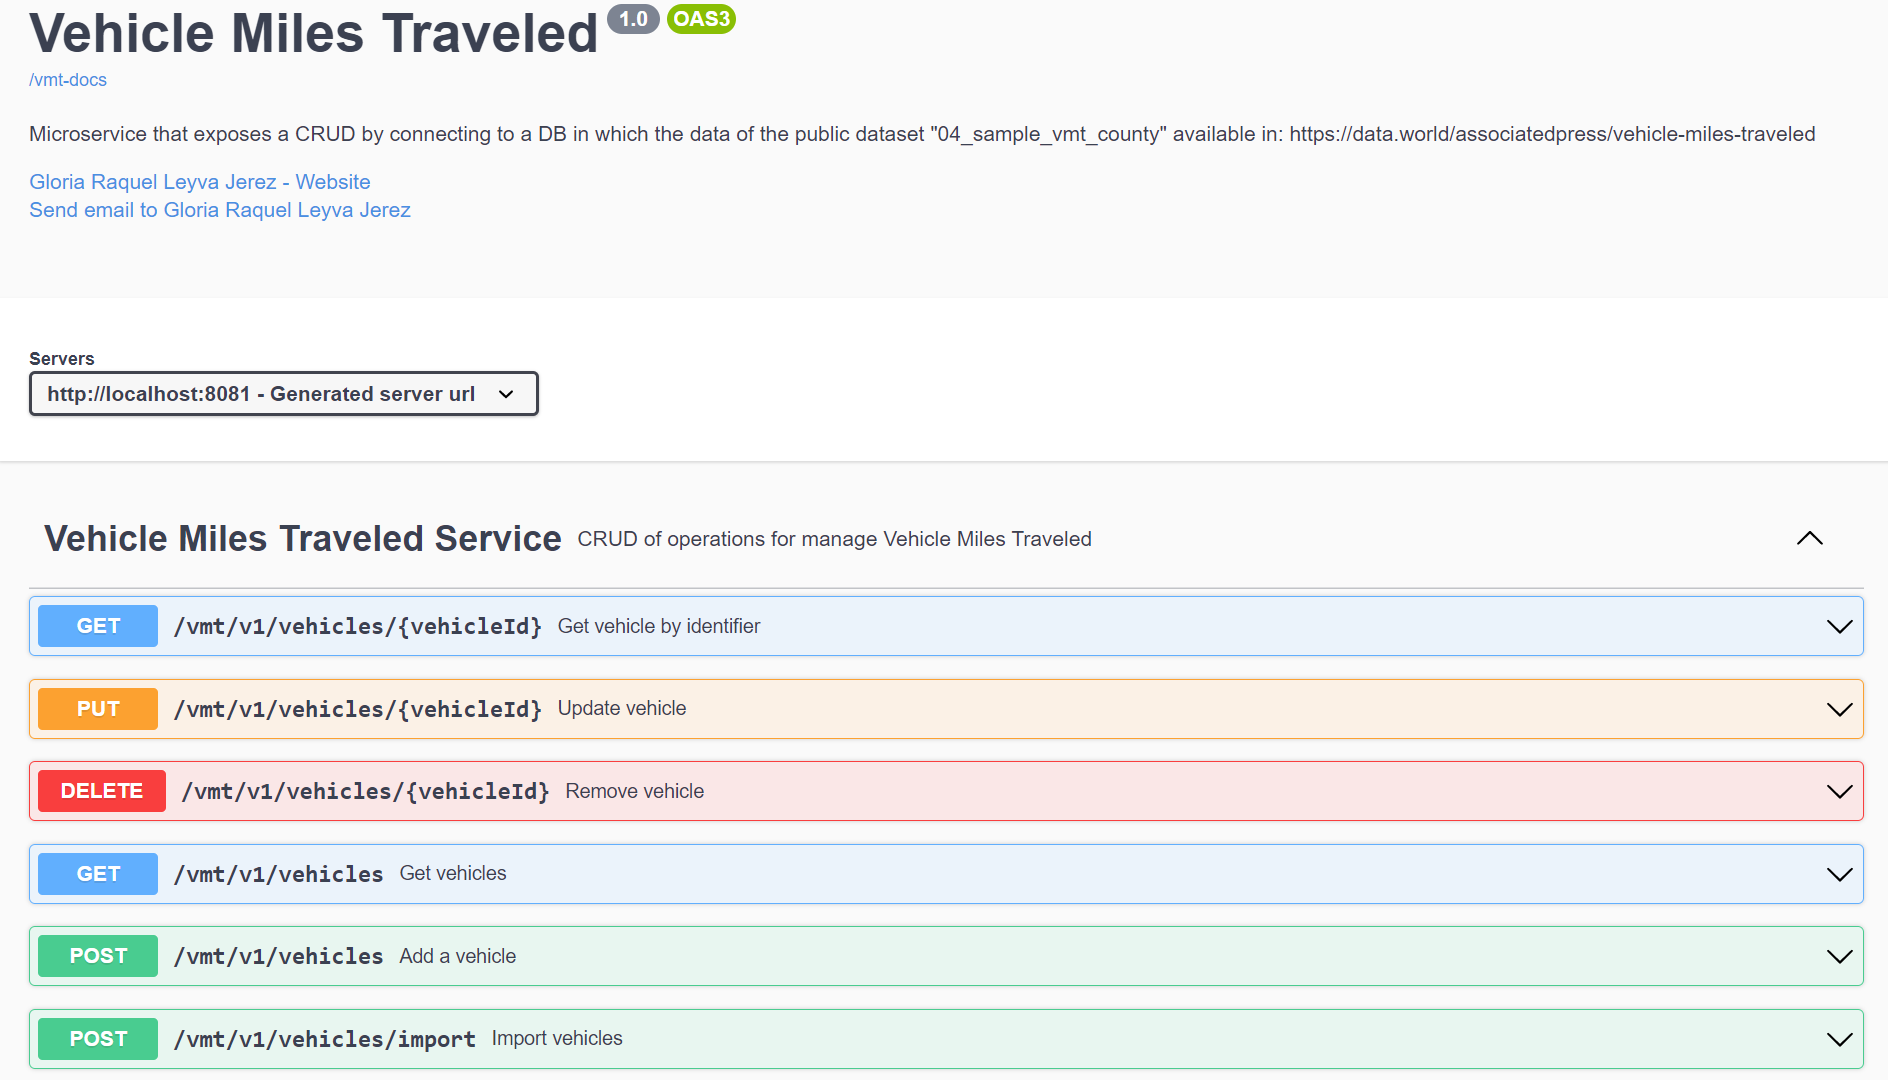
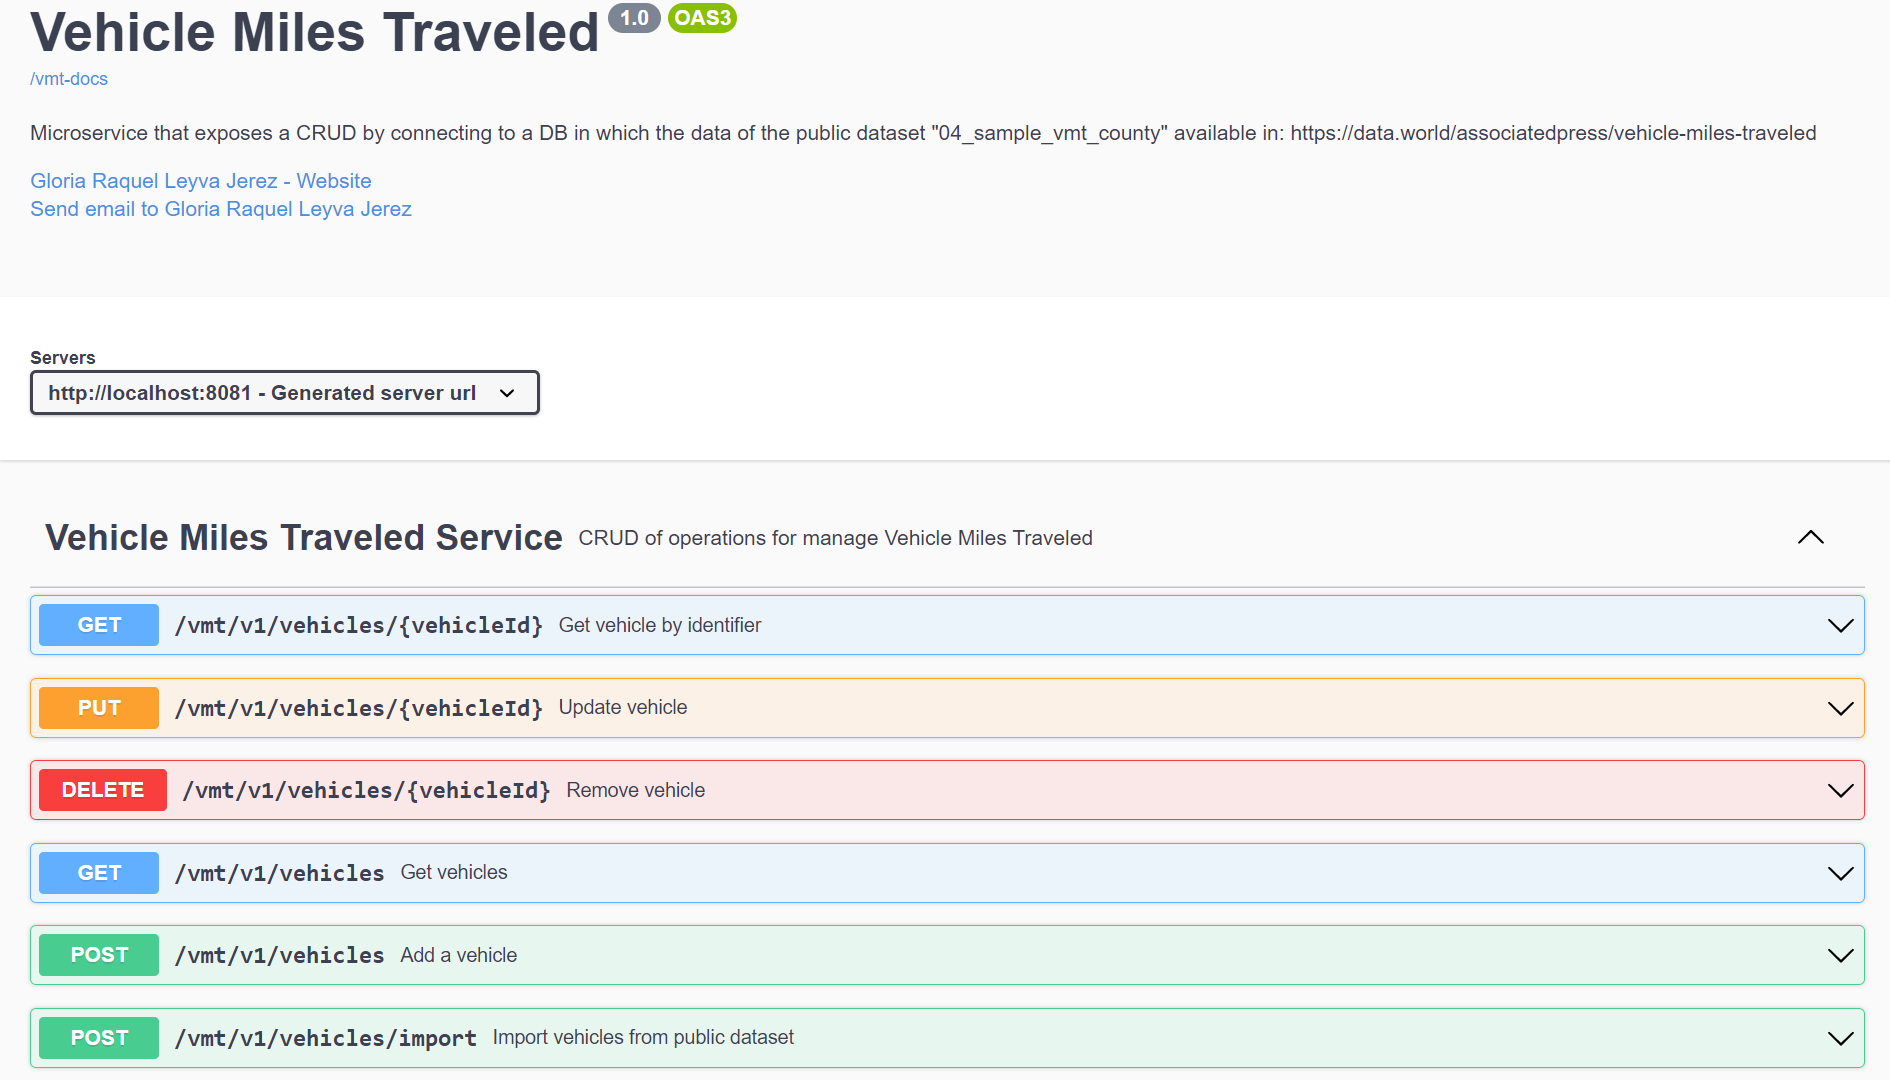
Update documentation

diff --git a/src/main/java/ch/prodigio/vmt/demo/application/constant/Documentation.java b/src/main/java/ch/prodigio/vmt/demo/application/constant/Documentation.java
@@ -32,7 +32,7 @@ public class Documentation {
 	public static final String vmt_tag_name = "Vehicle Miles Traveled Service";
 	public static final String vmt_tag_description = "CRUD of operations for manage Vehicle Miles Traveled";
 
-	public static final String import_vehicles_op_summary = "Import vehicles";
+	public static final String import_vehicles_op_summary = "Import vehicles from public dataset";
 	public static final String import_vehicles_op_description = "Import vehicles from dataset.";
 	public static final String import_vehicles_pm_description = "CSV Dataset to import.";
 	public static final String import_vehicles_rp_ok_description = "Vehicle has been imported";

diff --git a/README.md b/README.md
@@ -22,7 +22,7 @@ Ruta de la documentación de swagger: `http://localhost:8081/vmt-demo-api-docs`
 
 2. Endpoints implementados:
 
-   POST `/vmt/v1/vehicles/import` Importar dataset para previamente cargar los datos. Retorna el listado de los datos importados (se lista solo una selección de datos). 
+   POST `/vmt/v1/vehicles/import` Importar dataset para previamente cargar los datos. Se deberá descargar previamente el dataset o emplear el que ha sido previamente descargado y se encuentra en el directorio de resorce : `\vehicle-miles-traveled-service\src\main\resources\04_sample_vmt_county.csv`. El endpoint retorna el listado de todos los kms de vehículos importados (de cada vmt se seleccionan algunos datos para listar). 
    ![printscrenn](readme/import-dataset.PNG)
    
    GET `/vmt/v1/vehicles` Listar todos los datos de todos los vehículos. Puede indicar paginación `/vmt/v1/vehicles?page=0&size=5&sort=id,asc`. 
@@ -37,7 +37,7 @@ Ruta de la documentación de swagger: `http://localhost:8081/vmt-demo-api-docs`
    PUT `/vmt/v1/vehicles/{vehicleId}` Actualizar vehículo. La implementación de este endpoint contiene el manejo de excepciones para las validaciones que se aplican al VehicleRequest, y para el manejo de la excepción cuando se especifica un vehículo para actualizar que no se encuentra registrado.
    ![printscrenn](readme/update.PNG)
    
-   DELETE `/vmt/v1/vehicles/{vehicleId}` Actualizar vehículo. La implementación de este endpoint contiene el manejo de excepciones para las validaciones que se aplican al VehicleRequest, y para el manejo de la excepción cuando se especifica un vehículo para actualizar que no se encuentra registrado.
+   DELETE `/vmt/v1/vehicles/{vehicleId}` Eliminar vehículo.
    ![printscrenn](readme/delete.PNG)
 
 3. Para un mejor entendimiento y además realizar pruebas, una vez que el proyecto se encuentra corriendo/levantado, se puede consultar la documentación, enlace: http://localhost:8081/vmt-demo-api-docs
@@ -58,8 +58,8 @@ Se implementaron pruebas automatizadas de unidad y de integración empleando `Ju
 ![printscrenn](readme/satisfactory-tests.PNG)
 
 # OTROS EJERCICIOS
-En mi perfil (https://github.com/grleyvaj) se pueden encontrar otros ejercicios que implementado con otras tecnologías como bases de datos en memoria como `redis`, no relacionales como `h2` y `mongodb`, relacional como `mysql`, donde también he empleado anotaciones para la inyección de dependencias (@Services, @Component, @Repository), he implementado validadores, convertidores, adaptadores, etc. 
-Por ejemplo puede consultar los ejercicios:
+En mi perfil (https://github.com/grleyvaj) se pueden encontrar otros ejercicios que he implementado con otras tecnologías como bases de datos en memoria como `redis`, no relacionales como `h2` y `mongodb`, relacional como `mysql`, donde también he empleado anotaciones para la inyección de dependencias (@Services, @Component, @Repository), he implementado validadores, convertidores, adaptadores, etc. 
+Puede consultar los ejercicios:
 
 - `APIsRest_Liga` (https://github.com/grleyvaj/APIsREST_Liga), 
 - `APIsREST_Tweets` (https://github.com/grleyvaj/APIsREST_Tweets), 
